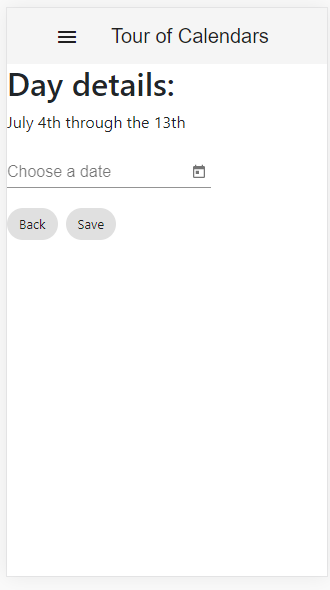
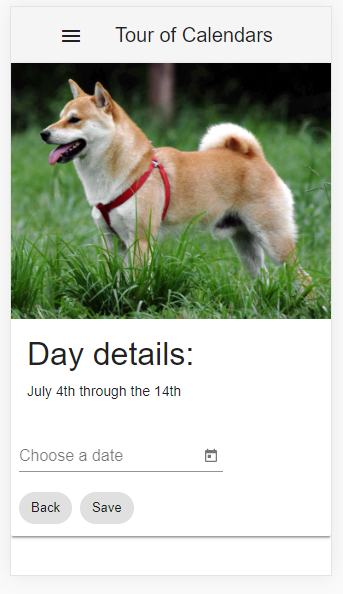
detail and readme

diff --git a/src/app/calendar-detail/calendar-detail.component.html b/src/app/calendar-detail/calendar-detail.component.html
@@ -1,16 +1,19 @@
-<div *ngIf="calendar">
-<!-- <form> -->
-  <h2>{{calendar.name}} details:</h2>
-  <div>
-  <label>July 4th through the&nbsp;</label>{{calendar.id}}th</div>
-  <mat-form-field class="example-full-width">
-    <input matInput [matDatepicker]="picker" placeholder="Choose a date">
-    <mat-datepicker-toggle matSuffix [for]="picker"></mat-datepicker-toggle>
-    <mat-datepicker #picker></mat-datepicker>
-  </mat-form-field>
-  <mat-chip-list>
-    <mat-chip (click)="goBack()">Back</mat-chip>
-    <mat-chip (click)="save()">Save</mat-chip>
-  </mat-chip-list>
-<!-- </form> -->
-</div>
+<mat-card *ngIf="calendar">
+  <img mat-card-image src="https://material.angular.io/assets/img/examples/shiba2.jpg" alt="Photo of a Shiba Inu">
+  <mat-card-content>
+    <h2>{{calendar.name}} details:</h2>
+      <label>July 4th through the</label>
+        {{calendar.id}}th
+  </mat-card-content>
+  <mat-card-actions>
+    <mat-form-field class="example-full-width">
+      <input matInput [matDatepicker]="picker" placeholder="Choose a date">
+      <mat-datepicker-toggle matSuffix [for]="picker"></mat-datepicker-toggle>
+      <mat-datepicker #picker></mat-datepicker>
+    </mat-form-field>
+    <mat-chip-list>
+      <mat-chip (click)="goBack()">Back</mat-chip>
+      <mat-chip (click)="save()">Save</mat-chip>
+    </mat-chip-list>
+  </mat-card-actions>
+</mat-card>
